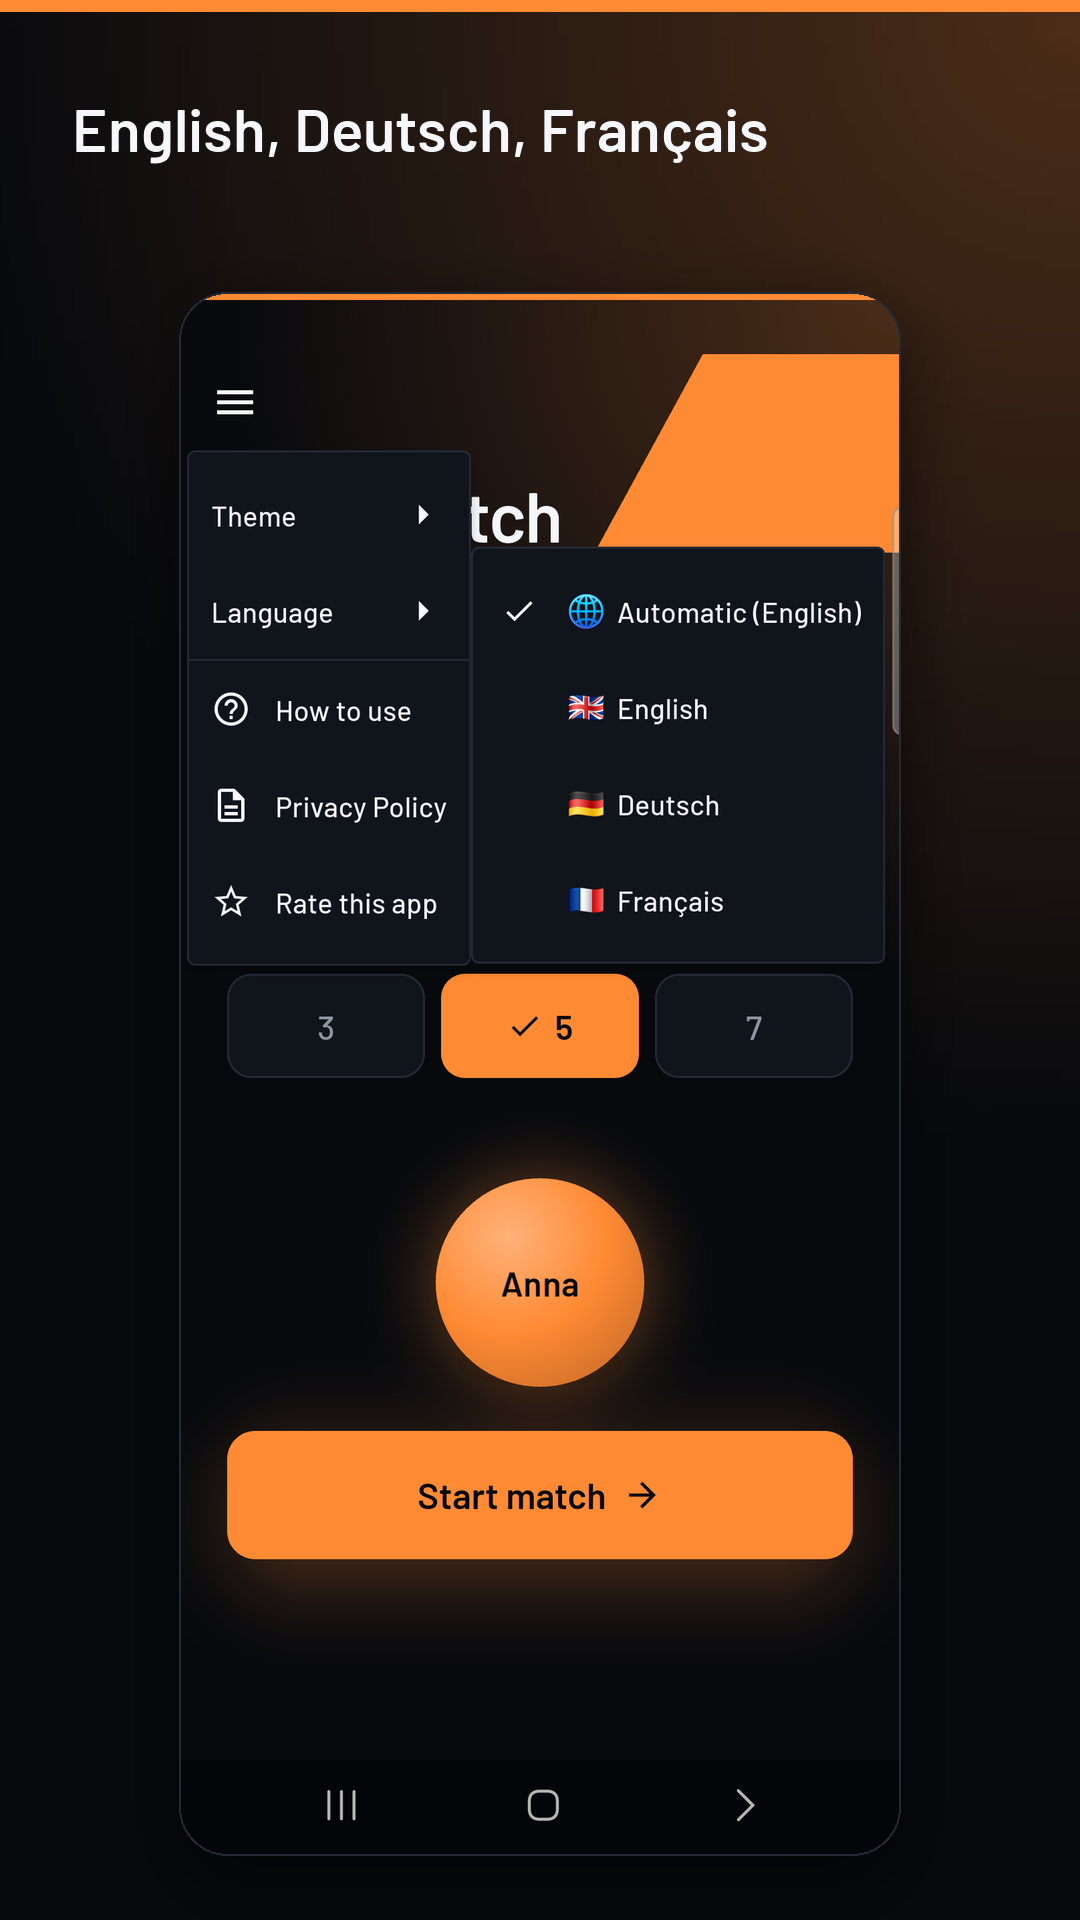
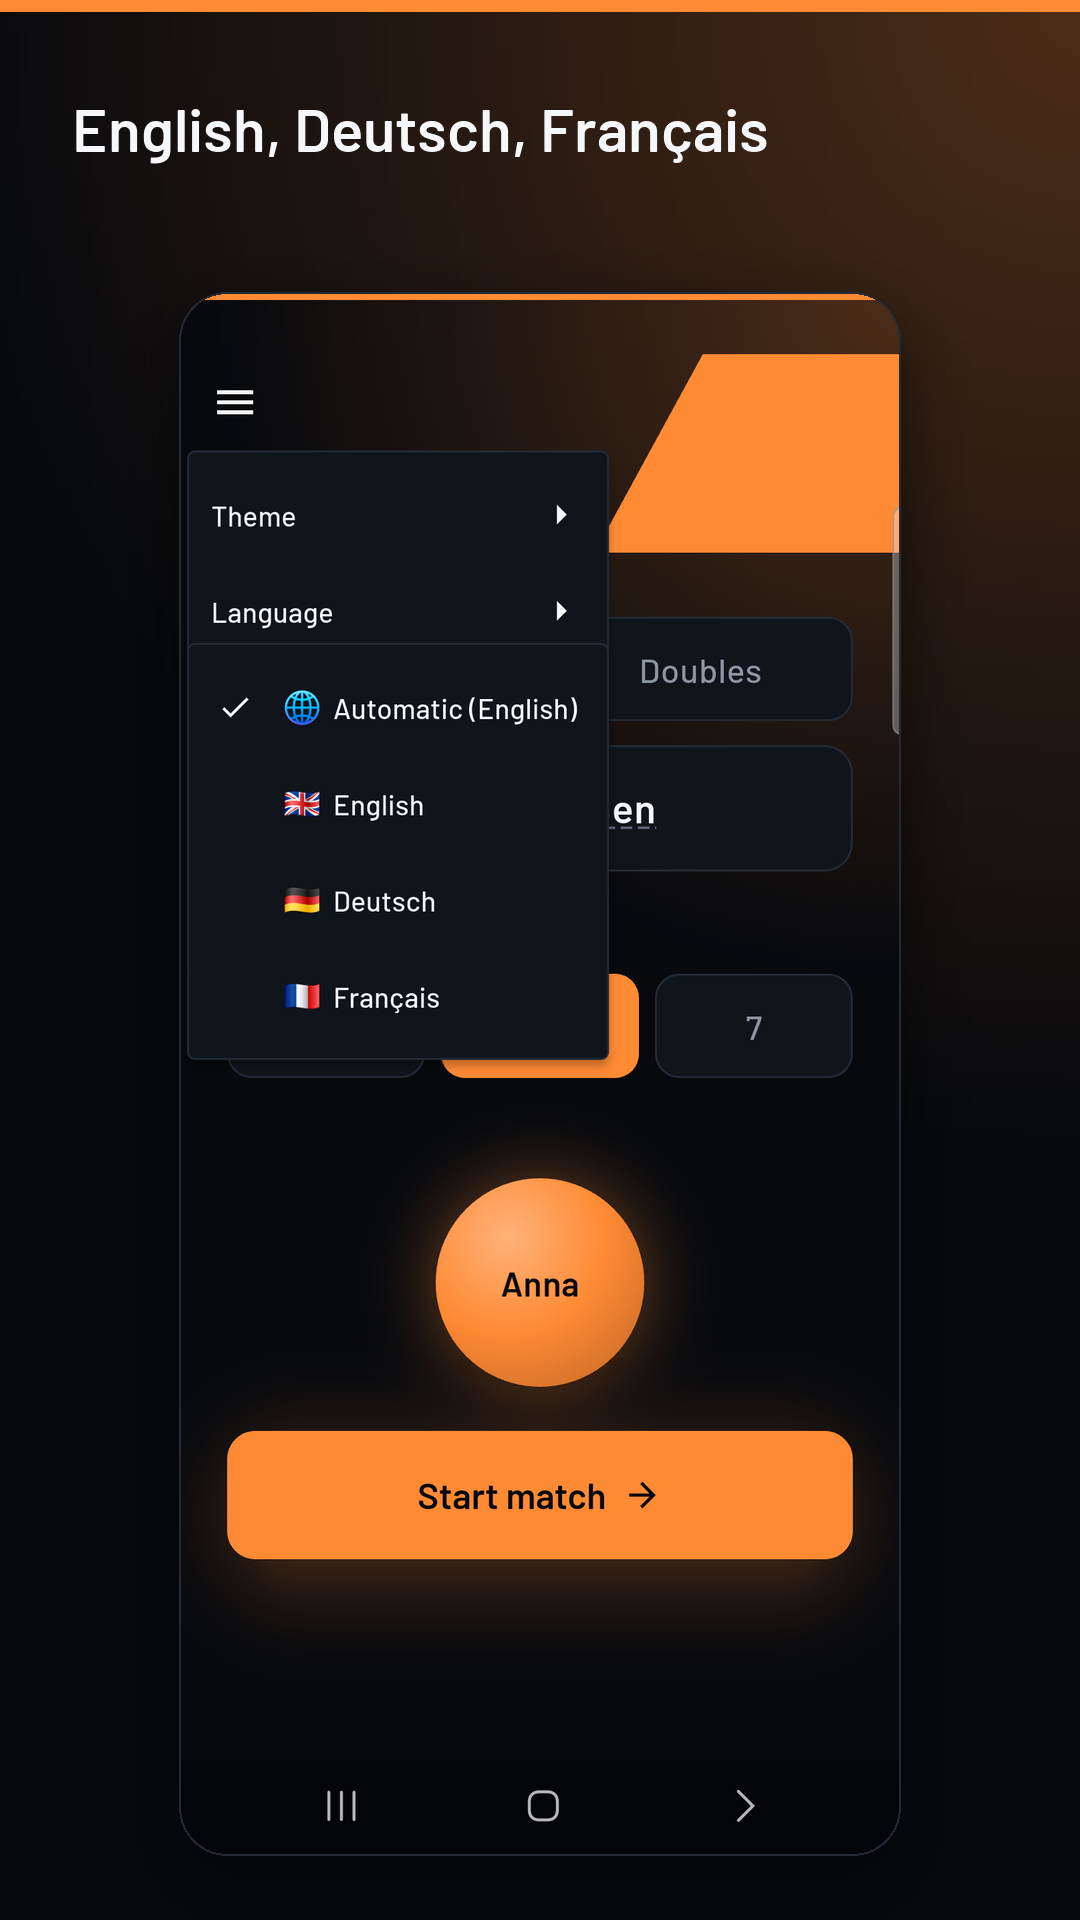
Retake the language-menu store screenshots
The three 05_language raw captures are retaken on the S23 with the
new menu layout, and all 18 finals and the contact sheet rebuilt.
capture_s23.py gains --language-menu-only and the new submenu tap
positions; make.py retries a save when an output file is briefly
locked.

diff --git a/tools/store_screenshots/capture_s23.py b/tools/store_screenshots/capture_s23.py
@@ -9,9 +9,10 @@ the app on the setup screen in Dark theme with the language set to
 Automatic on a device whose language resolves to English, Singles
 selected, default names, no toss yet.
 
-    python tools/store_screenshots/capture_s23.py [SERIAL]
+    python tools/store_screenshots/capture_s23.py [SERIAL] [--language-menu-only]
 
-Writes store/raw/<locale>/01_setup.png ... 06_help.png. It changes no
+Writes store/raw/<locale>/01_setup.png ... 06_help.png, or with
+--language-menu-only just 05_language.png for each locale. It changes no
 phone settings; it leaves the app on the setup screen, back on Automatic.
 """
 
@@ -28,7 +29,9 @@ from PIL import Image
 REPO = Path(__file__).resolve().parent.parent.parent
 RAW_DIR = REPO / "store" / "raw"
 
-SERIAL = sys.argv[1] if len(sys.argv) > 1 else None
+ARGS = [arg for arg in sys.argv[1:] if not arg.startswith("--")]
+SERIAL = ARGS[0] if ARGS else None
+LANGUAGE_MENU_ONLY = "--language-menu-only" in sys.argv
 ADB = shutil.which("adb") or str(
     Path(os.environ.get("LOCALAPPDATA", "")) / "Android/Sdk/platform-tools/adb.exe"
 )
@@ -37,7 +40,9 @@ ADB = shutil.which("adb") or str(
 MENU = (84, 164)
 MENU_LANGUAGE = (140, 480)
 MENU_HELP = (250, 627)
-LANGUAGE_OPTION = {"en-US": (730, 480), "de-DE": (730, 768), "fr-FR": (730, 912)}
+# The Language submenu drops down under its own row. "en-US" taps
+# Automatic, which is English when the device language resolves to it.
+LANGUAGE_OPTION = {"en-US": (450, 624), "de-DE": (450, 912), "fr-FR": (450, 1056)}
 OUTSIDE_MENU = (540, 2120)
 MODE_SINGLES = (300, 567)
 MODE_DOUBLES = (780, 567)
@@ -144,6 +149,8 @@ def capture(locale):
     open_language_menu()
     save(locale, "05_language")
     tap(OUTSIDE_MENU, pause=1.5)
+    if LANGUAGE_MENU_ONLY:
+        return
 
     save(locale, "01_setup")
 

diff --git a/tools/store_screenshots/make.py b/tools/store_screenshots/make.py
@@ -14,6 +14,7 @@ app, so nothing is downloaded. See README.md in this folder.
 import json
 import math
 import sys
+import time
 from pathlib import Path
 
 from PIL import Image, ImageDraw, ImageFilter, ImageFont
@@ -244,6 +245,22 @@ def contact_sheet(finals):
     return sheet
 
 
+def save_png(image, path):
+    """Saves an optimized PNG, retrying while the file is briefly locked.
+
+    A file-sync client (the repo may live in a synced folder) or an open
+    image viewer can hold the previous version of an output for a moment.
+    """
+    for attempt in range(6):
+        try:
+            image.save(path, optimize=True)
+            return
+        except OSError:
+            if attempt == 5:
+                raise
+            time.sleep(2)
+
+
 def main():
     captions = json.loads(CAPTIONS_PATH.read_text(encoding="utf-8"))
     missing = [
@@ -267,12 +284,12 @@ def main():
         for shot in shots:
             image = compose(RAW_DIR / locale / f"{shot['file']}.png", shot["caption"])
             out_path = out_dir / f"{shot['file']}.png"
-            image.save(out_path, optimize=True)
+            save_png(image, out_path)
             finals[locale].append(image)
             print(f"{out_path.relative_to(REPO)}  {out_path.stat().st_size // 1024} KB")
 
     sheet_path = OUT_DIR / "contact_sheet.png"
-    contact_sheet(finals).save(sheet_path, optimize=True)
+    save_png(contact_sheet(finals), sheet_path)
     print(sheet_path.relative_to(REPO))
 
 
